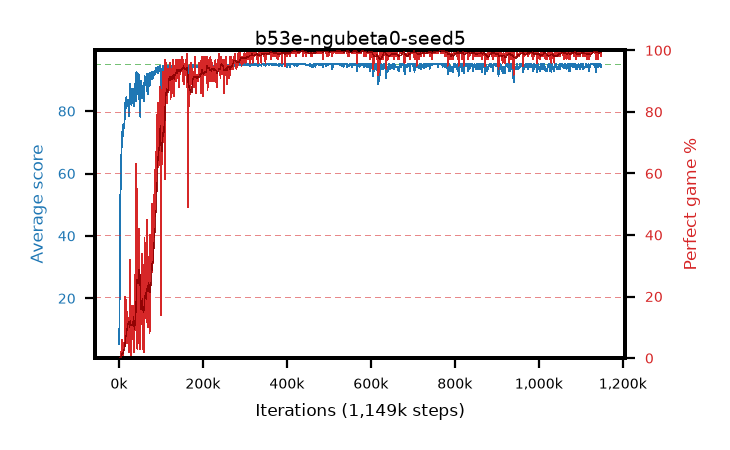
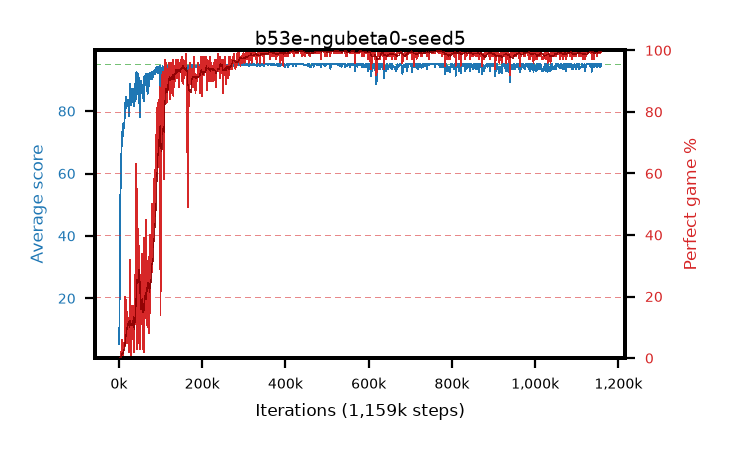
live pictures of 4 arm(s)

diff --git a/results/b53g-ngubeta0-seed7/b53g-ngubeta0-seed7.md b/results/b53g-ngubeta0-seed7/b53g-ngubeta0-seed7.md
@@ -1,6 +1,6 @@
 # b53g-ngubeta0-seed7
 
-step **1,159,000** · 1159 evals · trailing **94.7** · peak **94.97** @274,000 · sef **90.4** · best30 **99.8** @1,111,000
+step **1,169,000** · 1169 evals · trailing **94.72** · peak **94.97** @274,000 · sef **90.5** · best30 **99.8** @1,111,000
 
 ## Config
 
@@ -80,15 +80,15 @@ step **1,159,000** · 1159 evals · trailing **94.7** · peak **94.97** @274,000
 | 2000 | 37.8 | 20.34 | 6.0 | 63.0 | 32.628 | 0.0 | 0.4 |
 | 3000 | 67.99 | 36.22 | 23.0 | 95.0 | 74.006 | 11.0 | 0.4 |
 | ... | ... | ... | ... | ... | ... | ... | ... |
-| 1148000 | 95.0 | 94.51 | 95.0 | 95.0 | 193.774 | 100.0 | 0.4 |
-| 1149000 | 93.47 | 94.46 | 13.0 | 95.0 | 190.176 | 98.0 | 0.4 |
-| 1150000 | 95.0 | 94.5 | 95.0 | 95.0 | 193.784 | 100.0 | 0.4 |
-| 1151000 | 95.0 | 94.52 | 95.0 | 95.0 | 193.785 | 100.0 | 0.4 |
-| 1152000 | 94.25 | 94.52 | 20.0 | 95.0 | 191.993 | 99.0 | 0.4 |
-| 1153000 | 95.0 | 94.59 | 95.0 | 95.0 | 193.787 | 100.0 | 0.4 |
-| 1154000 | 94.95 | 94.59 | 90.0 | 95.0 | 192.694 | 99.0 | 0.4 |
-| 1155000 | 95.0 | 94.64 | 95.0 | 95.0 | 193.791 | 100.0 | 0.4 |
-| 1156000 | 95.0 | 94.66 | 95.0 | 95.0 | 193.785 | 100.0 | 0.4 |
-| 1157000 | 94.65 | 94.68 | 60.0 | 95.0 | 192.446 | 99.0 | 0.4 |
 | 1158000 | 95.0 | 94.68 | 95.0 | 95.0 | 193.792 | 100.0 | 0.4 |
 | 1159000 | 95.0 | 94.7 | 95.0 | 95.0 | 193.784 | 100.0 | 0.4 |
+| 1160000 | 95.0 | 94.72 | 95.0 | 95.0 | 193.792 | 100.0 | 0.4 |
+| 1161000 | 95.0 | 94.72 | 95.0 | 95.0 | 193.793 | 100.0 | 0.4 |
+| 1162000 | 95.0 | 94.74 | 95.0 | 95.0 | 193.784 | 100.0 | 0.4 |
+| 1163000 | 94.24 | 94.72 | 19.0 | 95.0 | 191.994 | 99.0 | 0.4 |
+| 1164000 | 94.3 | 94.75 | 25.0 | 95.0 | 192.054 | 99.0 | 0.4 |
+| 1165000 | 92.99 | 94.68 | 27.0 | 95.0 | 188.663 | 97.0 | 0.4 |
+| 1166000 | 95.0 | 94.7 | 95.0 | 95.0 | 193.784 | 100.0 | 0.4 |
+| 1167000 | 95.0 | 94.72 | 95.0 | 95.0 | 193.789 | 100.0 | 0.4 |
+| 1168000 | 95.0 | 94.72 | 95.0 | 95.0 | 193.782 | 100.0 | 0.4 |
+| 1169000 | 95.0 | 94.72 | 95.0 | 95.0 | 193.79 | 100.0 | 0.4 |

diff --git a/results/b53e-ngubeta0-seed5/b53e-ngubeta0-seed5.md b/results/b53e-ngubeta0-seed5/b53e-ngubeta0-seed5.md
@@ -1,6 +1,6 @@
 # b53e-ngubeta0-seed5
 
-step **1,149,000** · 1149 evals · trailing **94.67** · peak **94.95** @437,000 · sef **91.2** · best30 **99.8** @530,000
+step **1,159,000** · 1159 evals · trailing **94.66** · peak **94.95** @437,000 · sef **91.3** · best30 **99.8** @530,000
 
 ## Config
 
@@ -80,15 +80,15 @@ step **1,149,000** · 1149 evals · trailing **94.67** · peak **94.95** @437,00
 | 2000 | 29.39 | 17.35 | 3.0 | 54.0 | 24.459 | 0.0 | 0.4 |
 | 3000 | 50.81 | 28.5 | 16.0 | 85.0 | 45.457 | 0.0 | 0.4 |
 | ... | ... | ... | ... | ... | ... | ... | ... |
-| 1138000 | 94.29 | 94.57 | 24.0 | 95.0 | 192.033 | 99.0 | 0.4 |
-| 1139000 | 95.0 | 94.59 | 95.0 | 95.0 | 193.783 | 100.0 | 0.4 |
-| 1140000 | 95.0 | 94.62 | 95.0 | 95.0 | 193.789 | 100.0 | 0.4 |
-| 1141000 | 94.12 | 94.62 | 19.0 | 95.0 | 189.818 | 97.0 | 0.4 |
-| 1142000 | 94.31 | 94.59 | 26.0 | 95.0 | 192.053 | 99.0 | 0.4 |
-| 1143000 | 95.0 | 94.59 | 95.0 | 95.0 | 193.781 | 100.0 | 0.4 |
-| 1144000 | 95.0 | 94.59 | 95.0 | 95.0 | 193.792 | 100.0 | 0.4 |
-| 1145000 | 94.28 | 94.6 | 23.0 | 95.0 | 192.02 | 99.0 | 0.4 |
-| 1146000 | 95.0 | 94.61 | 95.0 | 95.0 | 193.776 | 100.0 | 0.4 |
-| 1147000 | 95.0 | 94.63 | 95.0 | 95.0 | 193.79 | 100.0 | 0.4 |
 | 1148000 | 94.19 | 94.6 | 21.0 | 95.0 | 190.896 | 98.0 | 0.4 |
 | 1149000 | 94.79 | 94.67 | 74.0 | 95.0 | 192.58 | 99.0 | 0.4 |
+| 1150000 | 94.33 | 94.68 | 28.0 | 95.0 | 192.067 | 99.0 | 0.4 |
+| 1151000 | 95.0 | 94.7 | 95.0 | 95.0 | 193.787 | 100.0 | 0.4 |
+| 1152000 | 95.0 | 94.73 | 95.0 | 95.0 | 193.782 | 100.0 | 0.4 |
+| 1153000 | 95.0 | 94.73 | 95.0 | 95.0 | 193.788 | 100.0 | 0.4 |
+| 1154000 | 94.3 | 94.71 | 25.0 | 95.0 | 192.05 | 99.0 | 0.4 |
+| 1155000 | 95.0 | 94.71 | 95.0 | 95.0 | 193.789 | 100.0 | 0.4 |
+| 1156000 | 94.21 | 94.68 | 16.0 | 95.0 | 191.961 | 99.0 | 0.4 |
+| 1157000 | 94.17 | 94.66 | 12.0 | 95.0 | 191.927 | 99.0 | 0.4 |
+| 1158000 | 95.0 | 94.66 | 95.0 | 95.0 | 193.78 | 100.0 | 0.4 |
+| 1159000 | 95.0 | 94.66 | 95.0 | 95.0 | 193.789 | 100.0 | 0.4 |
